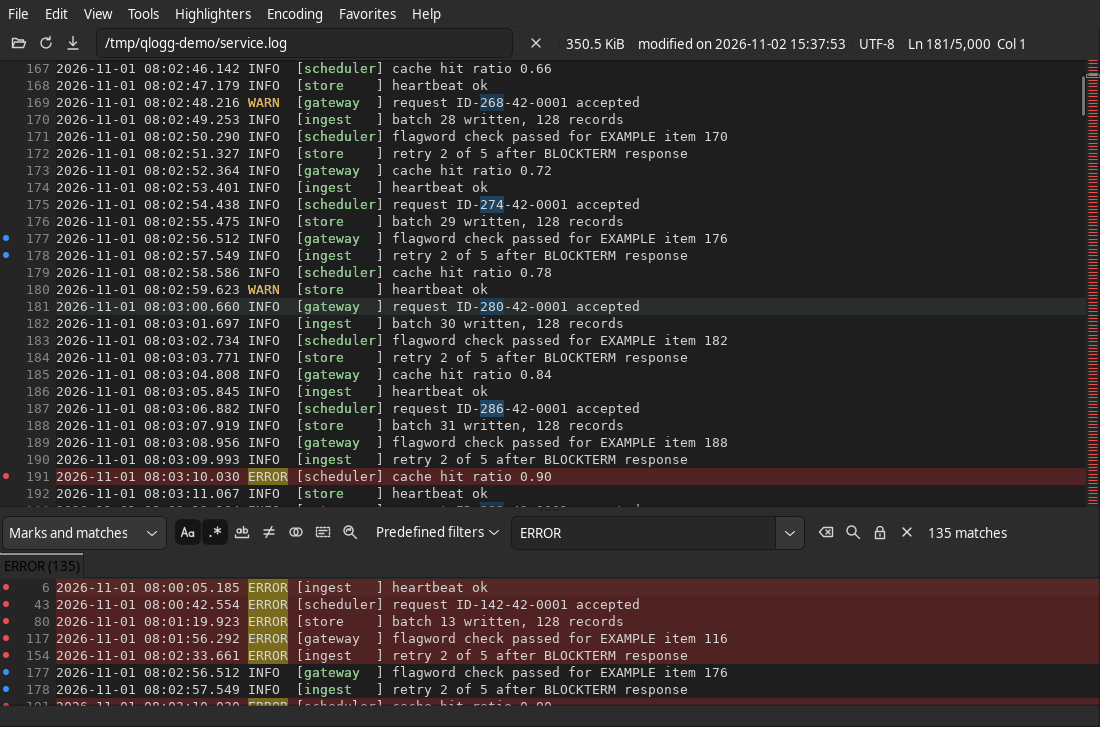
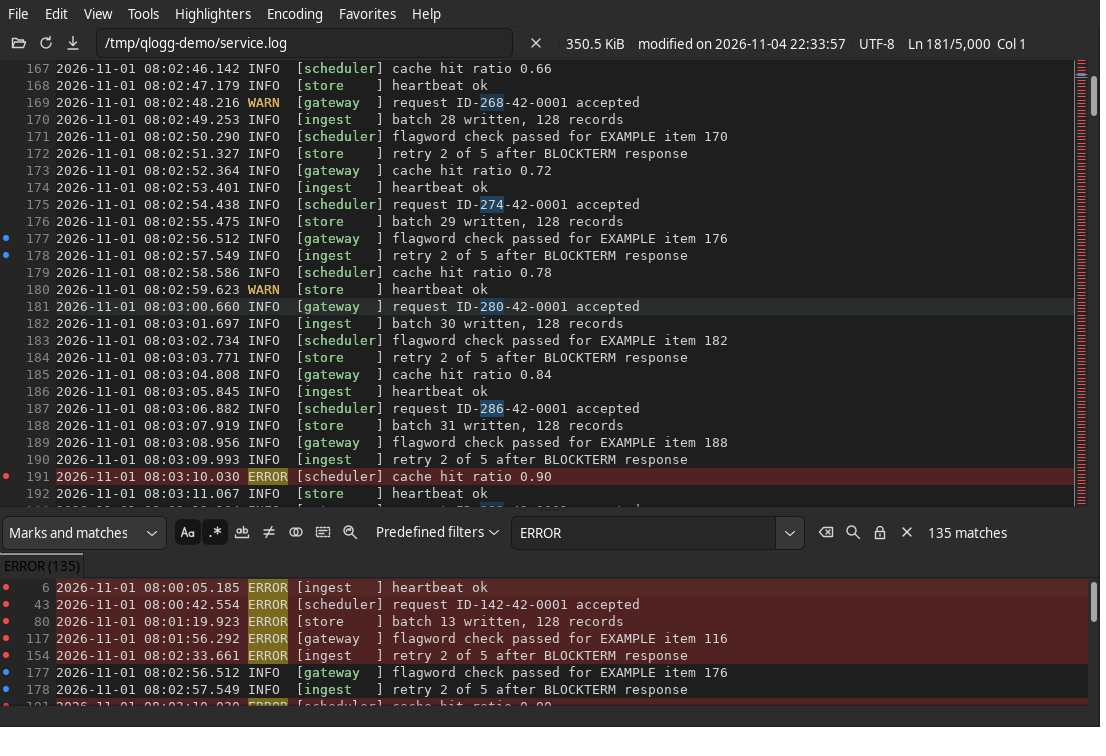
Place the overview bar between the log text and a slider scroll bar with a left separator and visible-range lines, and regenerate the screenshots

diff --git a/qlogg-ui-swt/src/main/java/io/github/ajdailey/qlogg/ui/swt/MainWindow.java b/qlogg-ui-swt/src/main/java/io/github/ajdailey/qlogg/ui/swt/MainWindow.java
@@ -71,20 +71,20 @@ import org.eclipse.swt.widgets.ToolItem;
  * The main window: the menu bar built from the {@link Keymap}; a top row with the icon toolbar
  * (Open, Reload, Follow), the read-only path field, Stop, and the shown file's size, modification
  * time, encoding and position; a row of tabs, one per open file, shown while two or more are open;
- * the main log view with the {@link OverviewBar} beside it over the bottom pane, split by a sash
- * with a grip; the bottom pane holds the {@link SearchBar} over the {@link ResultsPane}; then the
- * {@link QuickFindBar} and a status bar with the document notes, notices and the key-prefix field.
- * The views show the active tab: switching tabs disposes them and creates them over the other
- * document's controllers, which hold the viewport, selection and rows. Tabs show file names and
- * move by dragging, within the strip or to another window ({@link #dropTab}); a tab's close button
- * or a middle click closes its file, and its context menu holds the close variants, the path
- * commands, Rename Tab and Move to New Window. The path field's context menu holds the path
- * commands, Copy and Select All. Files dropped on the window open a tab each. A palette change from
- * the theme recolors both log views and the overview bar at once; native widgets follow the system.
- * Created, placed and opened on the UI thread; a close request from the window system is vetoed and
- * forwarded to the close handler, which ends with {@link #dispose}. Every QLogg dialog returns at
- * once. The platform file and color choosers run a nested event loop, and on GTK {@link
- * #clipboardText} waits on the UI thread for the clipboard owner.
+ * the main log view with the {@link OverviewBar} between its text and scroll bar over the bottom
+ * pane, split by a sash with a grip; the bottom pane holds the {@link SearchBar} over the {@link
+ * ResultsPane}; then the {@link QuickFindBar} and a status bar with the document notes, notices and
+ * the key-prefix field. The views show the active tab: switching tabs disposes them and creates
+ * them over the other document's controllers, which hold the viewport, selection and rows. Tabs
+ * show file names and move by dragging, within the strip or to another window ({@link #dropTab}); a
+ * tab's close button or a middle click closes its file, and its context menu holds the close
+ * variants, the path commands, Rename Tab and Move to New Window. The path field's context menu
+ * holds the path commands, Copy and Select All. Files dropped on the window open a tab each. A
+ * palette change from the theme recolors both log views and the overview bar at once; native
+ * widgets follow the system. Created, placed and opened on the UI thread; a close request from the
+ * window system is vetoed and forwarded to the close handler, which ends with {@link #dispose}.
+ * Every QLogg dialog returns at once. The platform file and color choosers run a nested event loop,
+ * and on GTK {@link #clipboardText} waits on the UI thread for the clipboard owner.
  *
  * <p>{@link #setActive} and {@link #setIdle} count overlapping operations through a {@link
  * BusyCounter}: while any is active the shell shows {@code SWT.CURSOR_APPSTARTING}, which keeps the
@@ -280,7 +280,7 @@ public final class MainWindow implements MainView, ApplicationListener {
     split.setLayoutData(new GridData(SWT.FILL, SWT.FILL, true, true));
     split.setSashWidth(SASH_WIDTH);
     mainHolder = new Composite(split, SWT.NONE);
-    GridLayout mainLayout = new GridLayout(2, false);
+    GridLayout mainLayout = new GridLayout(1, false);
     mainLayout.marginWidth = 0;
     mainLayout.marginHeight = 0;
     mainLayout.horizontalSpacing = 0;
@@ -1339,11 +1339,12 @@ public final class MainWindow implements MainView, ApplicationListener {
   private void showViews(DocumentController document) {
     removeViews();
     canvas = new LogCanvas(mainHolder, document, controller, keymap, palette, prefixListener);
-    canvas.control().setLayoutData(new GridData(SWT.FILL, SWT.FILL, true, true));
-    overviewBar = new OverviewBar(mainHolder, document, palette);
+    canvas.frame().setLayoutData(new GridData(SWT.FILL, SWT.FILL, true, true));
+    overviewBar = new OverviewBar(canvas.frame(), document, palette);
     GridData barData = new GridData(SWT.FILL, SWT.FILL, false, true);
     barData.widthHint = OverviewBar.WIDTH;
     overviewBar.control().setLayoutData(barData);
+    canvas.addSide(overviewBar.control());
     showOverview(controller.preferences().overview());
     results = new ResultsPane(resultsHolder, document, controller, keymap, palette, prefixListener);
     document.addListener(statusListener);
@@ -1376,18 +1377,18 @@ public final class MainWindow implements MainView, ApplicationListener {
   }
 
   private void removeViews() {
+    if (overviewBar != null) {
+      overviewBar.control().dispose();
+      overviewBar = null;
+    }
     if (canvas != null) {
       canvas.document().removeListener(statusListener);
-      canvas.control().dispose();
+      canvas.frame().dispose();
       canvas = null;
     }
     if (results != null) {
       results.control().dispose();
       results = null;
-    }
-    if (overviewBar != null) {
-      overviewBar.control().dispose();
-      overviewBar = null;
     }
   }
 
@@ -1514,7 +1515,7 @@ public final class MainWindow implements MainView, ApplicationListener {
     GridData data = (GridData) overviewBar.control().getLayoutData();
     data.exclude = !shown;
     overviewBar.control().setVisible(shown);
-    mainHolder.layout(true);
+    canvas.frame().layout(true);
     overviewBar.geometry();
   }
 

diff --git a/qlogg-ui-swt/src/main/java/io/github/ajdailey/qlogg/ui/swt/LogCanvas.java b/qlogg-ui-swt/src/main/java/io/github/ajdailey/qlogg/ui/swt/LogCanvas.java
@@ -26,13 +26,17 @@ import org.eclipse.swt.graphics.Font;
 import org.eclipse.swt.graphics.GC;
 import org.eclipse.swt.graphics.Point;
 import org.eclipse.swt.graphics.Rectangle;
+import org.eclipse.swt.layout.GridData;
+import org.eclipse.swt.layout.GridLayout;
 import org.eclipse.swt.widgets.Canvas;
 import org.eclipse.swt.widgets.Composite;
+import org.eclipse.swt.widgets.Control;
 import org.eclipse.swt.widgets.Event;
 import org.eclipse.swt.widgets.Listener;
 import org.eclipse.swt.widgets.Menu;
 import org.eclipse.swt.widgets.MenuItem;
 import org.eclipse.swt.widgets.ScrollBar;
+import org.eclipse.swt.widgets.Slider;
 import org.slf4j.Logger;
 import org.slf4j.LoggerFactory;
 
@@ -57,6 +61,10 @@ import org.slf4j.LoggerFactory;
  * SwtUiDispatcher} timer, which stops on release, focus loss and dispose. {@code Alt}+wheel scrolls
  * sideways and {@code Shift}+wheel by pages. With text wrap on, the view reports the lines that fit
  * whole ({@link LineViewController#wrapFitted}).
+ *
+ * <p>The canvas sits in a {@link #frame()} with a {@link Slider} as the vertical scroll bar at its
+ * right, so a side control ({@link #addSide}) goes between the text and the scroll bar. The canvas
+ * keeps its native horizontal scroll bar.
  */
 public final class LogCanvas {
   /** Receives the pending key prefix for the status bar. */
@@ -80,7 +88,9 @@ public final class LogCanvas {
   /** Set by the first paint in this process that draws a loaded line. */
   private static final AtomicBoolean TEXT_PAINTED = new AtomicBoolean();
 
+  private final Composite frame;
   private final Canvas canvas;
+  private final Slider vertical;
 
   /** Commands of the right-click menu, in order; null is a separator. */
   static final CommandId[] CONTEXT_MENU = {
@@ -181,8 +191,16 @@ public final class LogCanvas {
     this.keys = new KeySequencer(keymap);
     this.keymapRef = keymap;
     this.prefix = prefix;
-    canvas =
-        new Canvas(parent, SWT.V_SCROLL | SWT.H_SCROLL | SWT.DOUBLE_BUFFERED | SWT.NO_BACKGROUND);
+    frame = new Composite(parent, SWT.NONE);
+    GridLayout layout = new GridLayout(2, false);
+    layout.marginWidth = 0;
+    layout.marginHeight = 0;
+    layout.horizontalSpacing = 0;
+    frame.setLayout(layout);
+    canvas = new Canvas(frame, SWT.H_SCROLL | SWT.DOUBLE_BUFFERED | SWT.NO_BACKGROUND);
+    canvas.setLayoutData(new GridData(SWT.FILL, SWT.FILL, true, true));
+    vertical = new Slider(frame, SWT.VERTICAL);
+    vertical.setLayoutData(new GridData(SWT.FILL, SWT.FILL, false, true));
     FontSettings settings = application.preferences().options().font();
     font = createFont(settings);
     antialias = settings.antialias();
@@ -406,6 +424,36 @@ public final class LogCanvas {
   }
 
   /**
+   * Returns the composite holding the canvas, any side control and the vertical scroll bar. Lay out
+   * and dispose the view through it.
+   *
+   * @return the frame
+   */
+  public Composite frame() {
+    return frame;
+  }
+
+  /**
+   * Returns the vertical scroll bar.
+   *
+   * @return the slider
+   */
+  Slider verticalScrollBar() {
+    return vertical;
+  }
+
+  /**
+   * Places a control between the canvas and the vertical scroll bar.
+   *
+   * @param side a child of {@link #frame()}
+   */
+  public void addSide(Control side) {
+    side.moveAbove(vertical);
+    ((GridLayout) frame.getLayout()).numColumns = frame.getChildren().length;
+    frame.layout(true);
+  }
+
+  /**
    * Returns the controller shown.
    *
    * @return the controller
@@ -576,16 +624,17 @@ public final class LogCanvas {
             document.scrollColumns(-event.count);
           }
         });
-    canvas
-        .getVerticalBar()
-        .addListener(
-            SWT.Selection,
-            new Listener() {
-              @Override
-              public void handleEvent(Event event) {
-                verticalBar(event.detail);
-              }
-            });
+    vertical.addListener(
+        SWT.Selection,
+        new Listener() {
+          @Override
+          public void handleEvent(Event event) {
+            verticalBar(event.detail);
+            if (vertical.isFocusControl()) {
+              canvas.setFocus();
+            }
+          }
+        });
     canvas
         .getHorizontalBar()
         .addListener(
@@ -635,7 +684,7 @@ public final class LogCanvas {
       case SWT.ARROW_DOWN -> document.scrollLines(1);
       case SWT.PAGE_UP -> document.scrollLines(-viewport.rows());
       case SWT.PAGE_DOWN -> document.scrollLines(viewport.rows());
-      default -> document.setScrollbarSelection(canvas.getVerticalBar().getSelection());
+      default -> document.setScrollbarSelection(vertical.getSelection());
     }
   }
 
@@ -818,7 +867,6 @@ public final class LogCanvas {
 
   private void updateScrollBars() {
     Viewport viewport = document.viewport();
-    ScrollBar vertical = canvas.getVerticalBar();
     int thumb = viewport.scrollbarThumb();
     vertical.setValues(
         viewport.scrollbarSelection(),

diff --git a/qlogg-ui-swt/src/main/java/io/github/ajdailey/qlogg/ui/swt/OverviewBar.java b/qlogg-ui-swt/src/main/java/io/github/ajdailey/qlogg/ui/swt/OverviewBar.java
@@ -17,10 +17,11 @@ import org.eclipse.swt.widgets.Event;
 import org.eclipse.swt.widgets.Listener;
 
 /**
- * The overview bar beside the main view: one pixel row per range of lines, a mark line where the
- * range holds marks and a match line, drawn over it, where it holds matches, plus a frame around
- * the visible lines. Painting reads the controller's last {@link OverviewBins} snapshot only. A
- * click or a drag shows the line under the pointer.
+ * The overview bar between the main view's text and its scroll bar: one pixel row per range of
+ * lines, a mark line where the range holds marks and a match line, drawn over it, where it holds
+ * matches. A line down the left edge separates it from the text, and a line across it marks the
+ * first and the last visible line. Painting reads the controller's last {@link OverviewBins}
+ * snapshot only. A click or a drag shows the line under the pointer.
  */
 final class OverviewBar {
   /** Width of the bar in pixels. */
@@ -153,21 +154,23 @@ final class OverviewBar {
     for (int y = 0; y < height; y++) {
       if (bins.marks()[y] > 0) {
         gc.setForeground(colors.markMarker);
-        gc.drawLine(2, y, area.width - 3, y);
+        gc.drawLine(3, y, area.width - 3, y);
       }
       if (bins.matches()[y] > 0) {
         gc.setForeground(colors.matchMarker);
-        gc.drawLine(2, y, area.width - 3, y);
+        gc.drawLine(3, y, area.width - 3, y);
       }
     }
+    gc.setForeground(colors.overviewFrame);
+    gc.drawLine(0, 0, 0, area.height - 1);
     Viewport viewport = document.viewport();
     long count = viewport.lineCount();
     if (count > 0 && area.height > 0) {
       int top = OverviewBins.rowOf(viewport.topLine(), count, area.height);
       long last = Math.min(count - 1, viewport.topLine() + Math.max(0, viewport.rows() - 1));
       int bottom = OverviewBins.rowOf(last, count, area.height);
-      gc.setForeground(colors.overviewFrame);
-      gc.drawRectangle(0, top, area.width - 1, Math.max(1, bottom - top));
+      gc.drawLine(1, top, area.width - 1, top);
+      gc.drawLine(1, bottom, area.width - 1, bottom);
     }
   }
 }

diff --git a/qlogg-ui-swt/src/test/java/io/github/ajdailey/qlogg/ui/swt/ThemeAndHighlightTest.java b/qlogg-ui-swt/src/test/java/io/github/ajdailey/qlogg/ui/swt/ThemeAndHighlightTest.java
@@ -47,7 +47,9 @@ import org.eclipse.swt.graphics.GC;
 import org.eclipse.swt.graphics.Image;
 import org.eclipse.swt.graphics.ImageData;
 import org.eclipse.swt.graphics.RGB;
+import org.eclipse.swt.graphics.Rectangle;
 import org.eclipse.swt.widgets.Canvas;
+import org.eclipse.swt.widgets.Control;
 import org.eclipse.swt.widgets.Display;
 import org.eclipse.swt.widgets.Event;
 import org.eclipse.swt.widgets.Menu;
@@ -237,6 +239,26 @@ class ThemeAndHighlightTest {
     window.syncMenu();
     controller.execute(CommandId.THEME_LIGHT);
     assertEquals(rgb(Palette.LIGHT.background()), pixel(main, x, y));
+  }
+
+  @Test
+  void overviewBarSitsBetweenTheTextAndTheScrollBar() {
+    LogCanvas main = window.canvas();
+    Control[] row = main.frame().getChildren();
+    assertEquals(3, row.length);
+    assertSame(main.control(), row[0]);
+    assertSame(window.overviewBar().control(), row[1]);
+    assertSame(main.verticalScrollBar(), row[2]);
+    Rectangle text = main.control().getBounds();
+    Rectangle bar = window.overviewBar().control().getBounds();
+    assertEquals(text.x + text.width, bar.x);
+    assertEquals(bar.x + bar.width, main.verticalScrollBar().getBounds().x);
+    assertEquals(
+        rgb(window.overviewBar().palette().overviewFrame()),
+        pixel(window.overviewBar().control(), 0, bar.height / 2));
+    Control[] filtered = window.results().canvas().frame().getChildren();
+    assertEquals(2, filtered.length);
+    assertSame(window.results().canvas().verticalScrollBar(), filtered[1]);
   }
 
   @Test

diff --git a/qlogg-ui-swt/src/test/java/io/github/ajdailey/qlogg/ui/swt/LogViewTest.java b/qlogg-ui-swt/src/test/java/io/github/ajdailey/qlogg/ui/swt/LogViewTest.java
@@ -364,10 +364,10 @@ class LogViewTest {
 
   @Test
   void scrollBarAndWheelScroll() {
-    canvas().getVerticalBar().setSelection(100);
+    window.canvas().verticalScrollBar().setSelection(100);
     Event drag = new Event();
     drag.detail = SWT.DRAG;
-    canvas().getVerticalBar().notifyListeners(SWT.Selection, drag);
+    window.canvas().verticalScrollBar().notifyListeners(SWT.Selection, drag);
     assertEquals(100, document().viewport().topLine());
     Event wheel = new Event();
     wheel.count = -3;
@@ -382,7 +382,7 @@ class LogViewTest {
               }
             }));
     assertEquals("line 104", document().lines().text(103));
-    assertEquals(103, canvas().getVerticalBar().getSelection());
+    assertEquals(103, window.canvas().verticalScrollBar().getSelection());
   }
 
   @Test

diff --git a/qlogg-app/src/main/java/io/github/ajdailey/qlogg/app/theme/Palette.java b/qlogg-app/src/main/java/io/github/ajdailey/qlogg/app/theme/Palette.java
@@ -20,7 +20,7 @@ import io.github.ajdailey.qlogg.core.model.Rgb;
  * @param matchMarker match bullets in the gutter and match lines in the overview bar
  * @param markMarker mark bullets in the gutter and mark lines in the overview bar
  * @param overview overview bar background
- * @param overviewFrame the overview bar's frame around the visible lines
+ * @param overviewFrame the overview bar's left edge and its first and last visible line
  */
 public record Palette(
     boolean dark,

diff --git a/qlogg-ui-swt/README.md b/qlogg-ui-swt/README.md
@@ -119,10 +119,10 @@ Compiled and tested against the build host's SWT fragment.
   reorders. `documentMovedOut` removes the tab and views as a close does;
   `documentMovedIn` inserts the tab at its index. No `DragSource` is used.
 - The window body is a vertical `SashForm`: the main log view with the
-  `OverviewBar` at its right over the bottom pane, split by
-  `view.splitPercent`. The sash is 7 px and paints a dotted grip. View >
-  Overview Bar shows or hides the bar. `+` and `-` move the split by 5 points
-  between 10% and 90%; View > Save Splitter Position stores it.
+  `OverviewBar` between its text and its vertical scroll bar over the bottom
+  pane, split by `view.splitPercent`. The sash is 7 px and paints a dotted
+  grip. View > Overview Bar shows or hides the bar. `+` and `-` move the split
+  by 5 points between 10% and 90%; View > Save Splitter Position stores it.
 - The bottom pane holds the `SearchBar`, then the `ResultsPane`. Showing a tab
   binds the `SearchBar` to its document. The status bar shows the document
   notes from `StatusText.notes` (index percent, Following, File missing,
@@ -272,7 +272,10 @@ command waits for that line.
   `GC.setTextAntialias` does not reach
   a `TextLayout` on GTK, so forced anti-aliasing applies to printable-ASCII
   rows only.
-- The vertical scroll bar takes `Viewport`'s maximum, thumb and selection.
+- The vertical scroll bar is a `Slider` beside the canvas in
+  `LogCanvas.frame()`, so `addSide` can place a control between the text and
+  the bar; the canvas keeps its native horizontal bar. The slider takes
+  `Viewport`'s maximum, thumb and selection and hands focus back to the canvas.
   Arrow and page clicks scroll by lines; a drag goes through
   `setScrollbarSelection`, which maps past `int` range. The wheel scrolls by
   its event count; with `Alt` it scrolls that many columns, with `Shift` one
@@ -307,7 +310,8 @@ command waits for that line.
 
 `OverviewBar` (14 px wide) paints the `OverviewController`'s last bins: a
 mark line where a pixel row holds marks, a match line over it where it holds
-matches, and a frame around the visible lines. A click or drag shows the line
+matches, a line down its left edge, and a line at the first and at the last
+visible line. A click or drag shows the line
 under the pointer; a resize reports the height, and the controller computes
 nothing while the bar is hidden.
 
